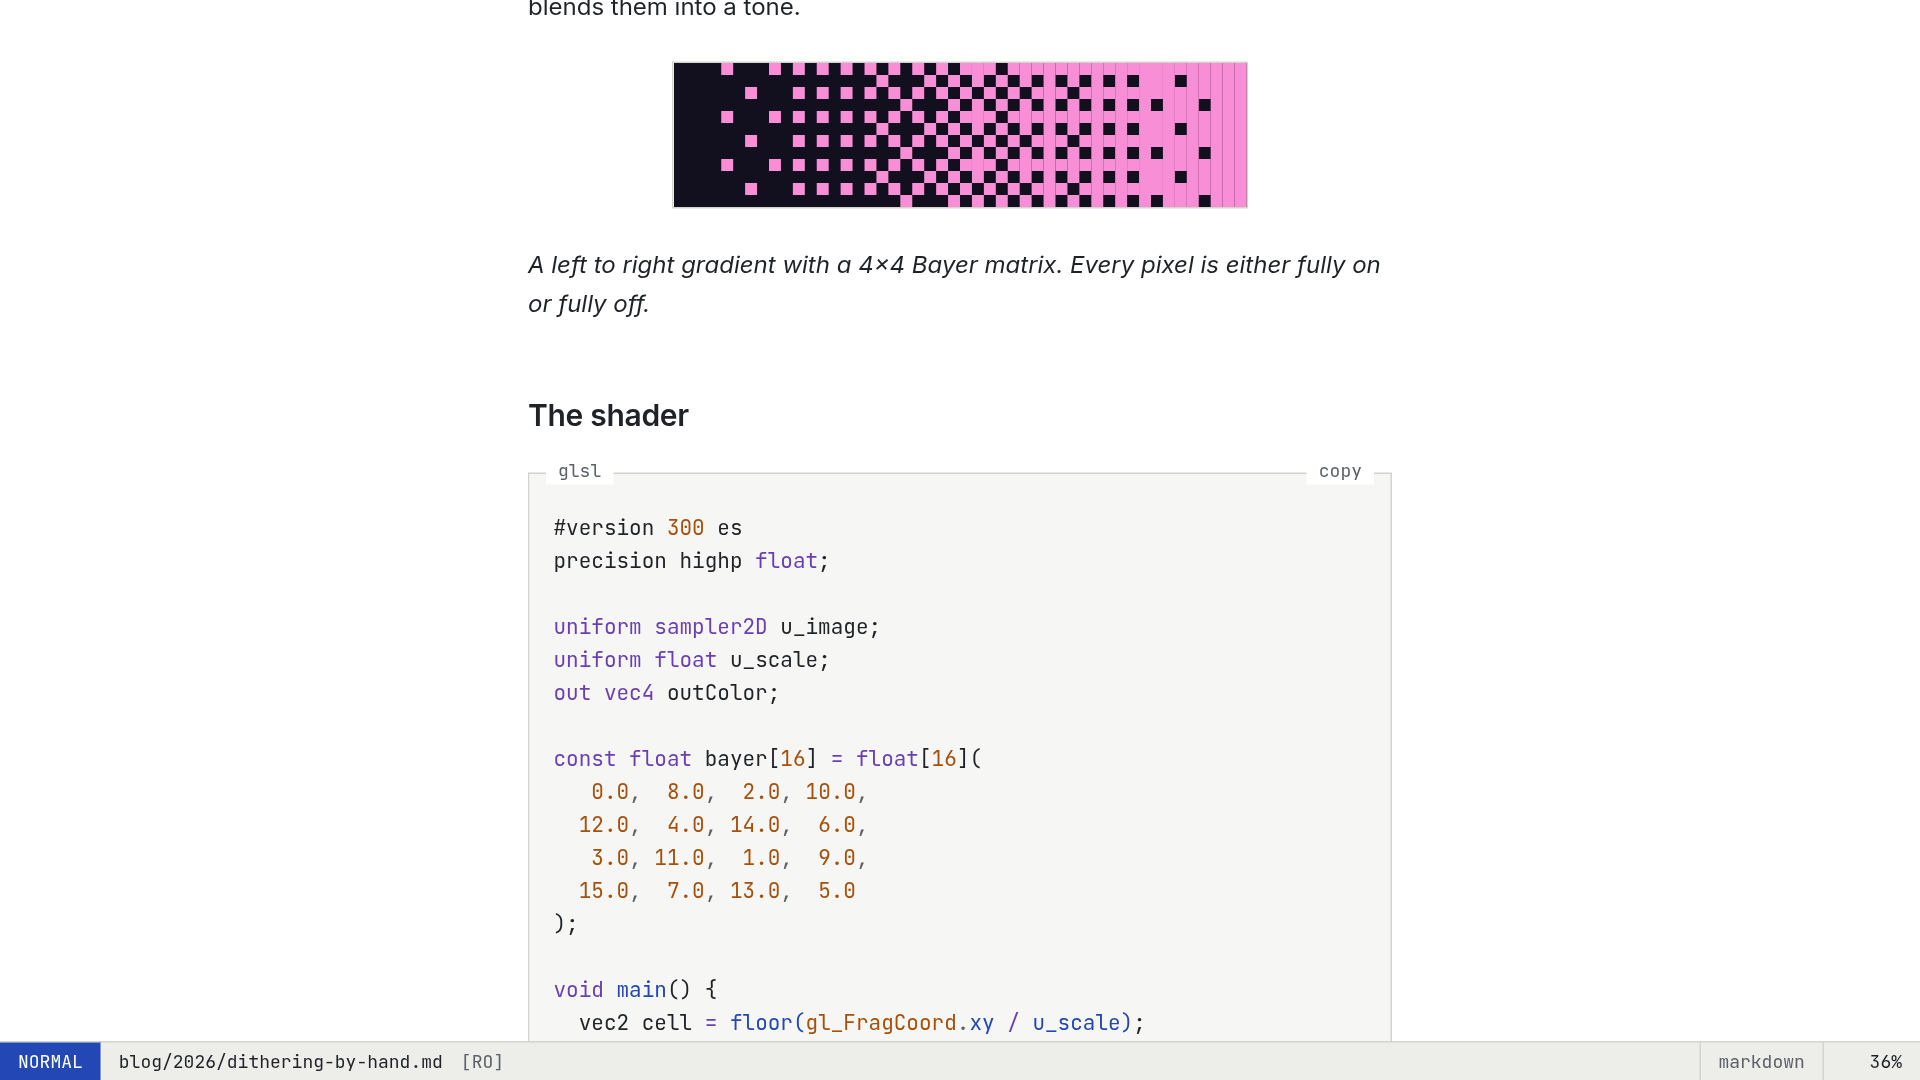
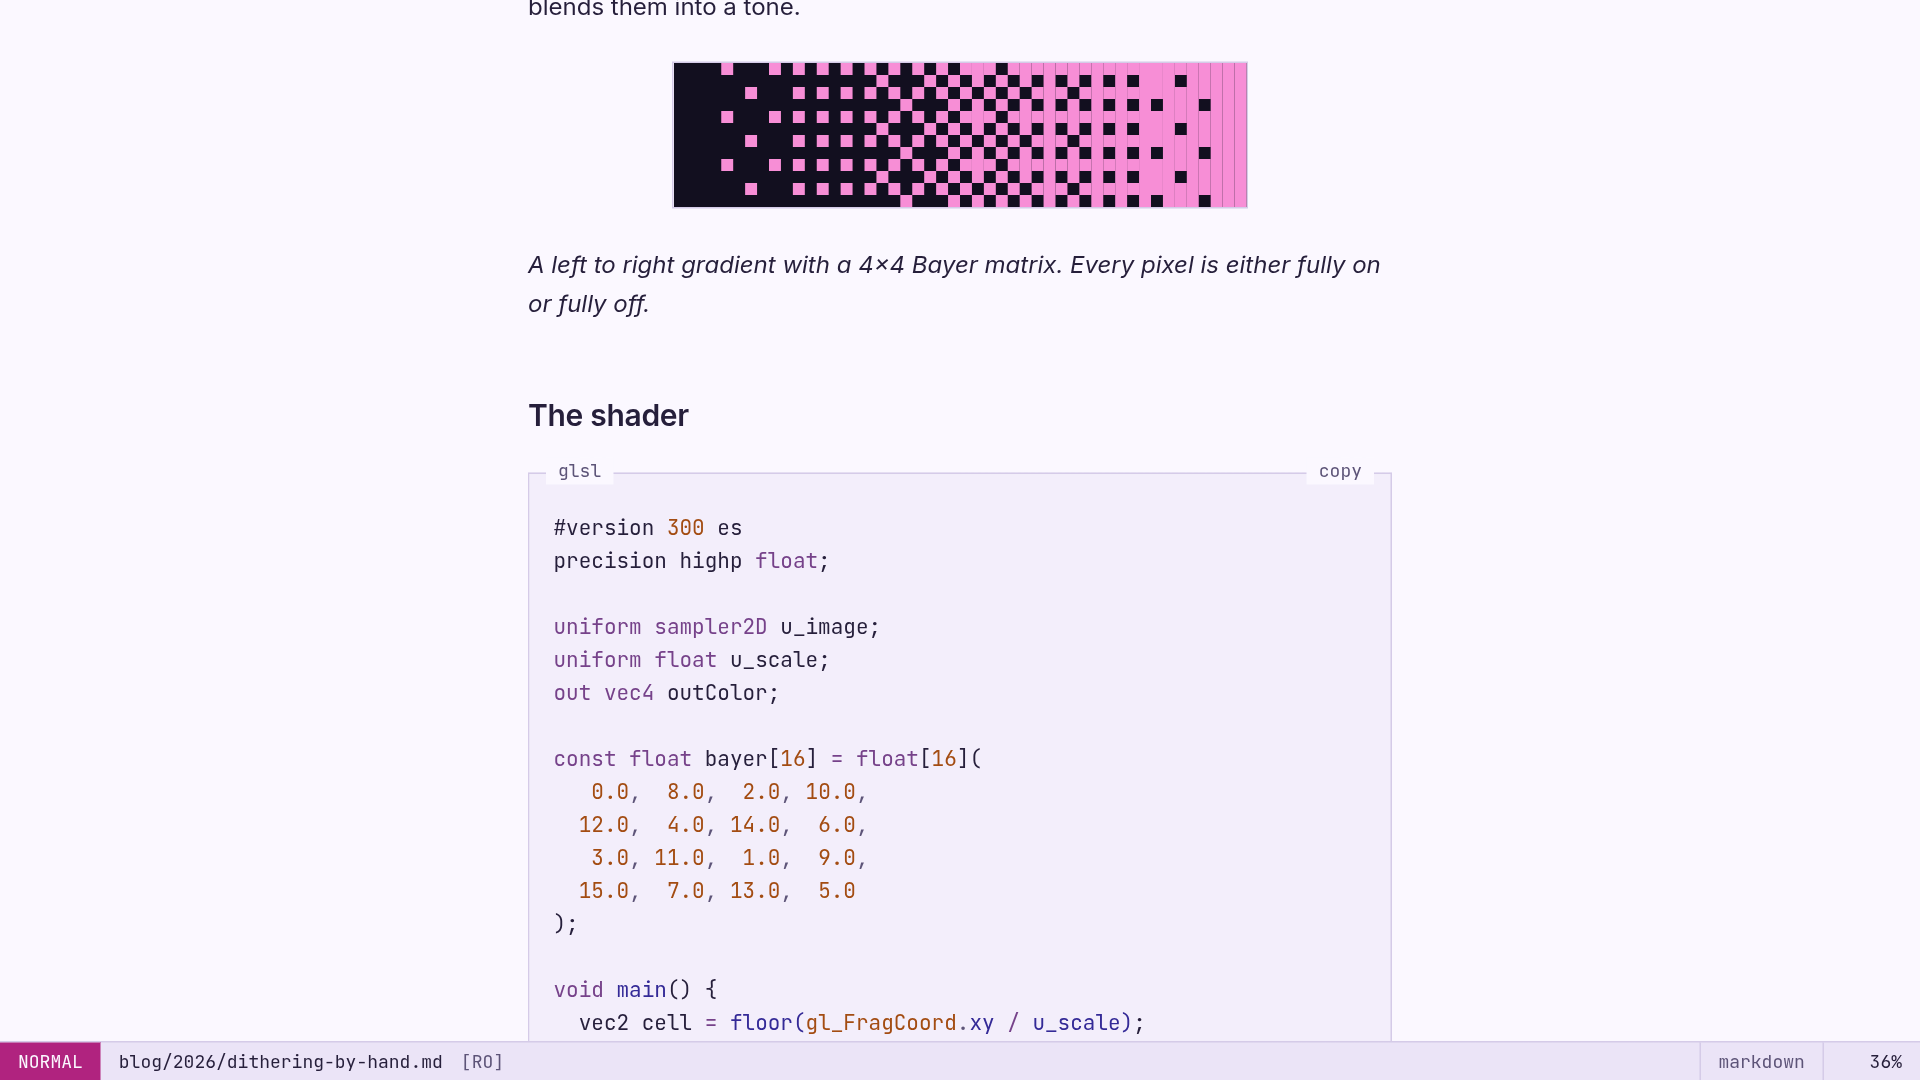
feat(theme): starglow signature palette, the default
The first glowing iteration, now the theme's own dark and light palette.
README screenshots retaken with it.

Changed region(s): [[0.0, 0.9472, 0.0625, 1.0], [0.3438, 0.5806, 0.375, 0.6111]]

diff --git a/src/palettes.ts b/src/palettes.ts
@@ -40,6 +40,27 @@ export interface Palette {
 }
 
 export const darkPalettes = {
+  starglow: {
+    label: "Starglow",
+    bg: "#120f1f",
+    mantle: "#0d0b17",
+    crust: "#09070f",
+    muted: "#1d1932",
+    border: "#342a5c",
+    fg: "#e8e3f6",
+    mutedFg: "#a79fc4",
+    accent: "#f78ed6",
+    accentFg: "#120f1f",
+    comment: "#8f87ad",
+    red: "#ff7f9a",
+    orange: "#ffb07a",
+    yellow: "#f3d88a",
+    green: "#15c2a5",
+    cyan: "#5fcde4",
+    blue: "#8fa2ff",
+    purple: "#c79be0",
+    glow: "#342a97",
+  },
   void: {
     label: "Void",
     bg: "#0b0d10",
@@ -106,6 +127,27 @@ export const darkPalettes = {
 } satisfies Record<string, Palette>;
 
 export const lightPalettes = {
+  starglow: {
+    label: "Starglow",
+    bg: "#fbf8ff",
+    mantle: "#f3eefb",
+    crust: "#ebe4f7",
+    muted: "#efe9f8",
+    border: "#d5cbe8",
+    fg: "#261f3b",
+    mutedFg: "#5d5478",
+    accent: "#b0237f",
+    accentFg: "#fbf8ff",
+    comment: "#6a6285",
+    red: "#b3263f",
+    orange: "#a34c12",
+    yellow: "#7a5a00",
+    green: "#117472",
+    cyan: "#0e6f88",
+    blue: "#342a97",
+    purple: "#76428a",
+    glow: "#fbe3f4",
+  },
   paper: {
     label: "Paper",
     bg: "#ffffff",

diff --git a/starglow.config.ts b/starglow.config.ts
@@ -68,9 +68,9 @@ export default defineStarglowConfig({
     // Vim-style status bar on post and note pages.
     statusline: true,
     // Colour palettes, chosen separately for dark and light mode. Built in:
-    // dark void | aurora | ember; light paper | petal | frost | sand. Add
-    // your own under `palettes` (see src/palettes.ts).
-    palette: { dark: "void", light: "paper" },
+    // dark starglow | void | aurora | ember; light starglow | paper | petal |
+    // frost | sand. Add your own under `palettes` (see src/palettes.ts).
+    palette: { dark: "starglow", light: "starglow" },
     // Floating panel to try palettes and effects live. For demos; turn it
     // off on your own site.
     preview: true,

diff --git a/src/config.ts b/src/config.ts
@@ -110,8 +110,8 @@ function resolvePalettes(appearance: StarglowConfig["appearance"]) {
     light: { ...lightPalettes, ...appearance?.palettes?.light },
   };
   const palette = {
-    dark: appearance?.palette?.dark ?? "void",
-    light: appearance?.palette?.light ?? "paper",
+    dark: appearance?.palette?.dark ?? "starglow",
+    light: appearance?.palette?.light ?? "starglow",
   };
   for (const mode of ["dark", "light"] as const) {
     if (!(palette[mode] in palettes[mode])) {

diff --git a/src/types/config.ts b/src/types/config.ts
@@ -110,8 +110,8 @@ interface AppearanceConfig {
   statusline?: boolean;
   /**
    * Colour palettes, chosen separately for dark and light mode. Built in:
-   * dark "void", "aurora", "ember"; light "paper", "petal", "frost",
-   * "sand". Defaults to "void" and "paper".
+   * dark "starglow", "void", "aurora", "ember"; light "starglow", "paper",
+   * "petal", "frost", "sand". Defaults to "starglow" for both.
    */
   palette?: { dark?: string; light?: string };
   /**

diff --git a/docs/02-configuration.md b/docs/02-configuration.md
@@ -49,14 +49,14 @@ Optional `Person` structured data on the homepage: `jobTitle` and `description`.
 
 These keys control the small amount of motion and decoration in the theme. All motion stops under `prefers-reduced-motion`.
 
-| Key            | Default                            | What it does                                                                                       |
-| :------------- | :--------------------------------- | :------------------------------------------------------------------------------------------------- |
-| `ambient`      | `"none"`                           | Inner light of the header band: `none`, `light` (static), `breathe` (slow pulse), `dawn`.          |
-| `wordmarkGlow` | `false`                            | A soft pulsing glow on the header wordmark.                                                        |
-| `statusline`   | `false`                            | A vim-style status bar on post and note pages: source path, file type and scroll position.         |
-| `palette`      | `{ dark: "void", light: "paper" }` | The dark and light colour palettes, see [Customising](./05-customising.md).                        |
-| `palettes`     | none                               | Your own palettes by name, usable in `palette`.                                                    |
-| `preview`      | `false`                            | A floating panel to switch palettes and effects live, for demos. Changes last one browser session. |
+| Key            | Default                                   | What it does                                                                                       |
+| :------------- | :---------------------------------------- | :------------------------------------------------------------------------------------------------- |
+| `ambient`      | `"none"`                                  | Inner light of the header band: `none`, `light` (static), `breathe` (slow pulse), `dawn`.          |
+| `wordmarkGlow` | `false`                                   | A soft pulsing glow on the header wordmark.                                                        |
+| `statusline`   | `false`                                   | A vim-style status bar on post and note pages: source path, file type and scroll position.         |
+| `palette`      | `{ dark: "starglow", light: "starglow" }` | The dark and light colour palettes, see [Customising](./05-customising.md).                        |
+| `palettes`     | none                                      | Your own palettes by name, usable in `palette`.                                                    |
+| `preview`      | `false`                                   | A floating panel to switch palettes and effects live, for demos. Changes last one browser session. |
 
 The demo site uses `ambient: "breathe"`, `wordmarkGlow: true`, `statusline: true` and `preview: true`. Turn `preview` off on your own site.
 

diff --git a/README.md b/README.md
@@ -17,7 +17,7 @@ Dark first, its own colour palettes, a little 2000s glow.
 - Labelled code, table and callout blocks; GitHub alert callouts; MDX
 - Vim-style statusline on posts, 88x31 footer badges, a terminal 404 page
 - Pagefind search, RSS, sitemap, generated Open Graph images, JSON-LD
-- 3 dark and 4 light palettes, chosen separately; your own in a few lines; WCAG AA checked at build
+- 4 dark and 5 light palettes, chosen separately; your own in a few lines; WCAG AA checked at build
 - A live preview panel for demos: palette, ambient light, glow, statusline
 - Almost no client JavaScript; plain static `dist/` for any host
 - One typed config file, `starglow.config.ts`
@@ -25,11 +25,11 @@ Dark first, its own colour palettes, a little 2000s glow.
 
 ## Screenshots
 
-| Dark                                                                                                         | Light                                                          |
-| ------------------------------------------------------------------------------------------------------------ | -------------------------------------------------------------- |
-| ![A post with a dithered image, a caption and a GLSL code block, void palette](.github/assets/post-dark.png) | ![The same post, paper palette](.github/assets/post-light.png) |
+| Dark                                                                                                             | Light                                                                   |
+| ---------------------------------------------------------------------------------------------------------------- | ----------------------------------------------------------------------- |
+| ![A post with a dithered image, a caption and a GLSL code block, starglow palette](.github/assets/post-dark.png) | ![The same post, starglow light palette](.github/assets/post-light.png) |
 
-![The same home page in the aurora, ember, petal and sand palettes](.github/assets/palettes.png)
+![The same home page in the void, aurora, paper and sand palettes](.github/assets/palettes.png)
 
 ## Quick start
 

diff --git a/docs/05-customising.md b/docs/05-customising.md
@@ -34,7 +34,7 @@ appearance: {
 },
 ```
 
-Built in are three dark palettes, `void`, `aurora` and `ember`, and four light ones, `paper`, `petal`, `frost` and `sand`. The demo's preview panel, bottom right, switches between them live.
+Built in are four dark palettes, `starglow` (the default), `void`, `aurora` and `ember`, and five light ones, `starglow`, `paper`, `petal`, `frost` and `sand`. The demo's preview panel, bottom right, switches between them live.
 
 To use your own colours, add a palette under `appearance.palettes` and select it. A palette is 18 colours; everything else (code highlighting, callouts, status colours, badges, social images) is derived from them:
 
